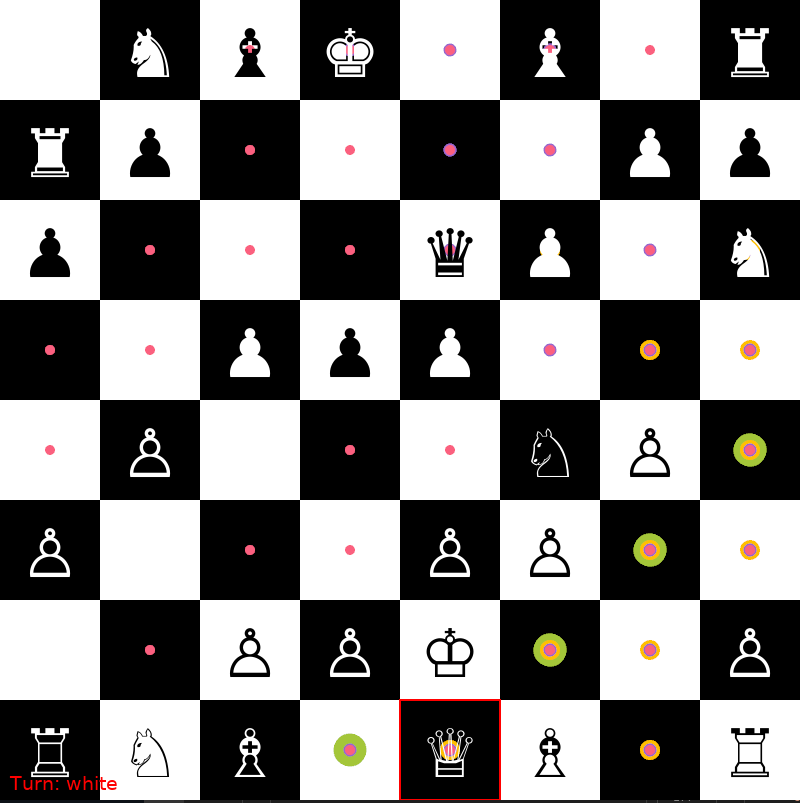
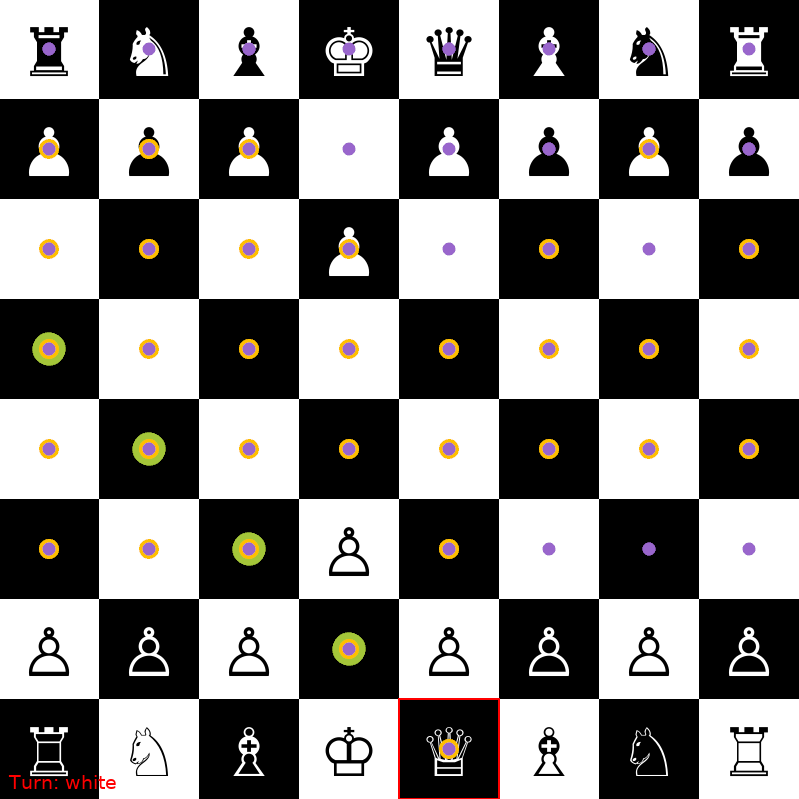
Fixed depth draw issue - pieces were occluding depth dots.

diff --git a/pyss/game/board.py b/pyss/game/board.py
@@ -150,6 +150,7 @@ class Chessboard:
                     position[1] + move[1] * displacement)
                 if self.board_safe(position, new_position):
                     if piece.type in ["bishop", "rook", "queen"]:
+                        # TODO: Check for castling
                         if self.check_path(position, new_position):
                             valid_moves.append(new_position)
                     elif piece.type == "pawn":
@@ -249,11 +250,18 @@ class Chessboard:
         piece = self.get_piece_at(position)
         if not piece:
             return
+        
+        # if king, you cannot take
+        if piece.type == "king":
+            if self.get_piece_at(new_position):
+                return
 
         if piece.type != "pawn" and self.en_passant_available:
             self.en_passant_available = False
 
-        if piece.type == "pawn":                
+        if piece.type == "pawn": 
+            # TODO: check for promotions
+            # En Passant               
             # check if pawn is moving two spaces from initial position
             if abs(new_position[0] - position[0]) == 2 and position in piece.initial_positions:
                 self.en_passant_available = new_position
@@ -266,6 +274,7 @@ class Chessboard:
                     new_position = (self.en_passant_available[0] - 1 if piece.color == "white" else self.en_passant_available[0] + 1, new_position[1])
                 self.en_passant_available = False
         else:
+            # TODO: check for castling
             if self.board[new_position[0]][new_position[1]]:
                 self.remove_piece(new_position)
 

diff --git a/pyss/app/app.py b/pyss/app/app.py
@@ -49,8 +49,8 @@ class ChessApp(arcade.Window):
         arcade.start_render()
 
         self._display_board.draw()
-        self.__draw_valid_moves()
         self.__draw_pieces()
+        self.__draw_valid_moves()
         self.__draw_stats()
 
     def update(self, delta_time):
@@ -208,11 +208,11 @@ class ChessApp(arcade.Window):
                 # get min key in self._selected_depth_bins
                 # TODO: ISSUE / Theoretically losing the depth at the edge is part of the cause
                 # for the top edge failure.
-                # if len(self._selected_depth_bins):
-                #     self._selected_depth_moves = self._selected_depth_bins[min(
-                #         self._selected_depth_bins.keys())]
-                # else:
-                #     return
+                if len(self._selected_depth_bins):
+                    self._selected_depth_moves = self._selected_depth_bins[min(
+                        self._selected_depth_bins.keys())]
+                else:
+                    return
 
         # if no cached bins, create them
         if self._selected_depth_bins is None:
